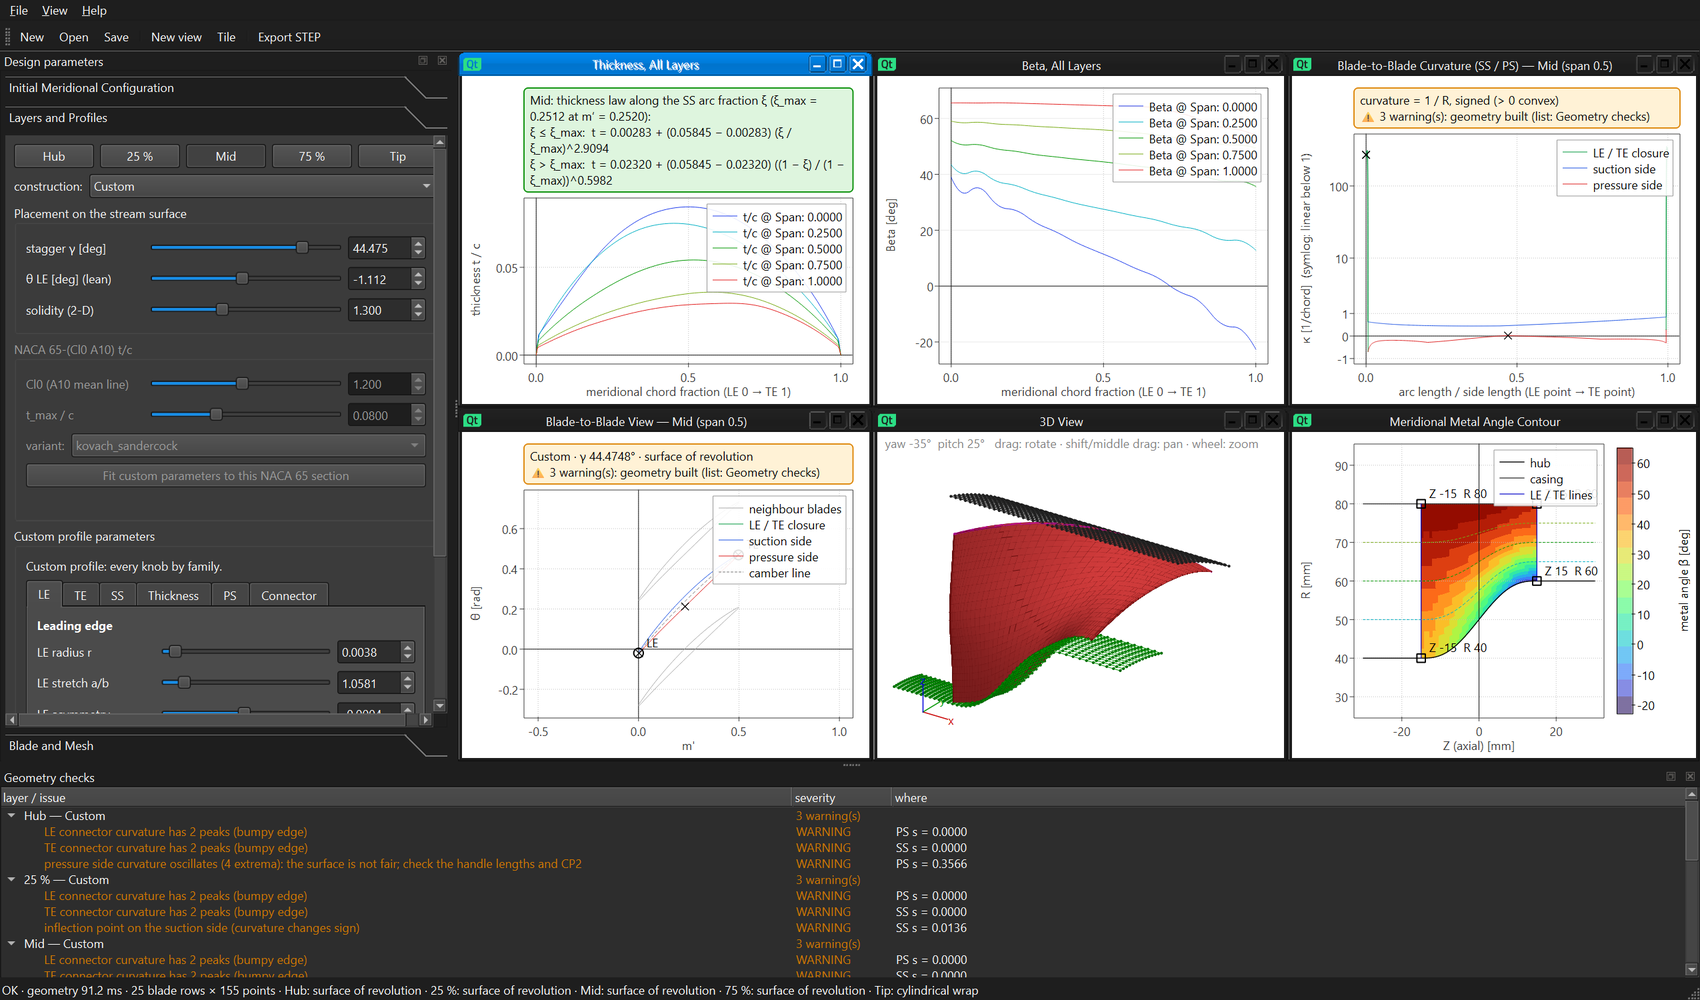
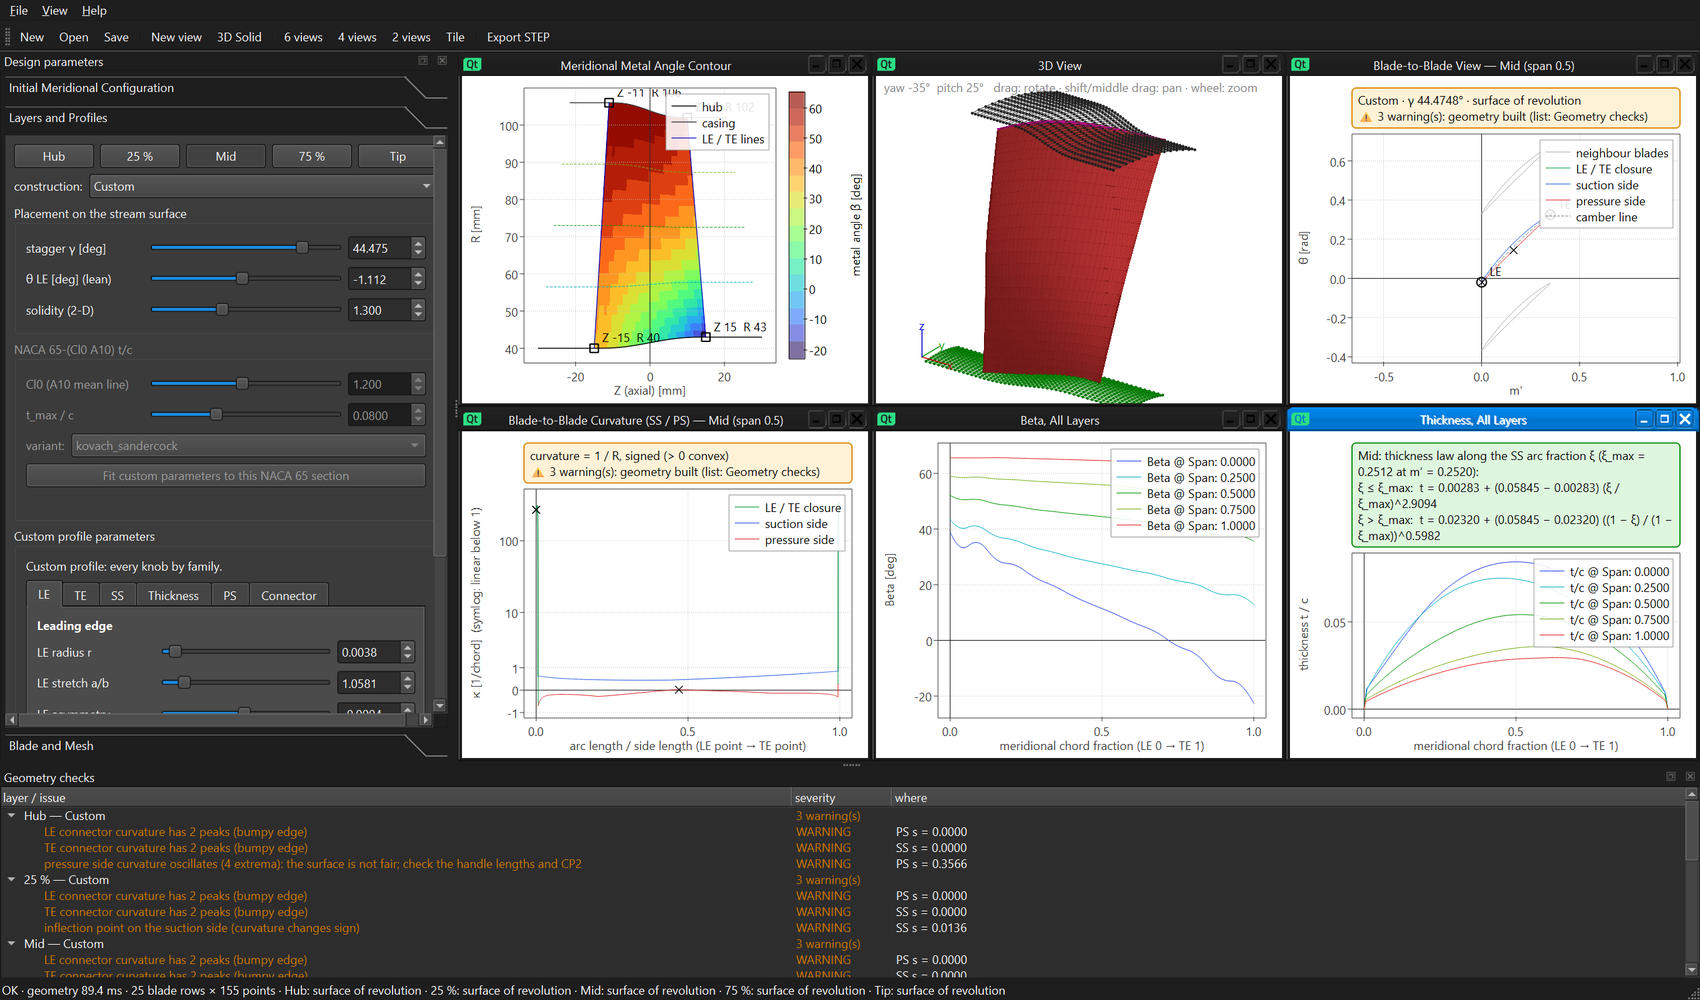
docs: README screenshot of the designer as it opens now (new defaults, 6-view grid, new toolbar)

diff --git a/README.md b/README.md
@@ -49,10 +49,13 @@ bash tools/designer.sh             # or: build/linux-release/bin/bladegen_design
 
 <p align="center">
   <img src="assets/designer.png" width="98%" alt="BladeGen Designer"/>
-  <br/><em>BladeGen Designer: the parameter panel (meridional configuration, layers Hub / 25 % / Mid / 75 % / Tip,
-  construction method and knobs, blade and mesh), six views (thickness and metal angle of all layers, SS / PS
-  curvature with the issue markers, the blade-to-blade view in (m′, θ) with the neighbouring blades, the meshed
-  3-D blade on hub and casing, the metal-angle contour in the meridional plane) and the geometry checks.</em>
+  <br/><em>BladeGen Designer as it opens (v1.0.2). Left: the parameter panel (meridional configuration, layers
+  Hub / 25 % / Mid / 75 % / Tip, construction method and knobs, blade and mesh). Right: the default layout of six
+  equal views. They show the metal-angle contour in the meridional plane for the default channel (hub R 40 → 43,
+  casing R 106 → 102), the meshed 3-D blade on hub and casing, the blade-to-blade view in (m′, θ) with the
+  neighbouring blades, the SS / PS curvature with the issue markers, and the metal angle and thickness of all
+  layers. Below: the geometry checks. The toolbar opens the OpenCASCADE 3D Solid view and switches between
+  6, 4 and 2 views.</em>
 </p>
 
 How it works:
